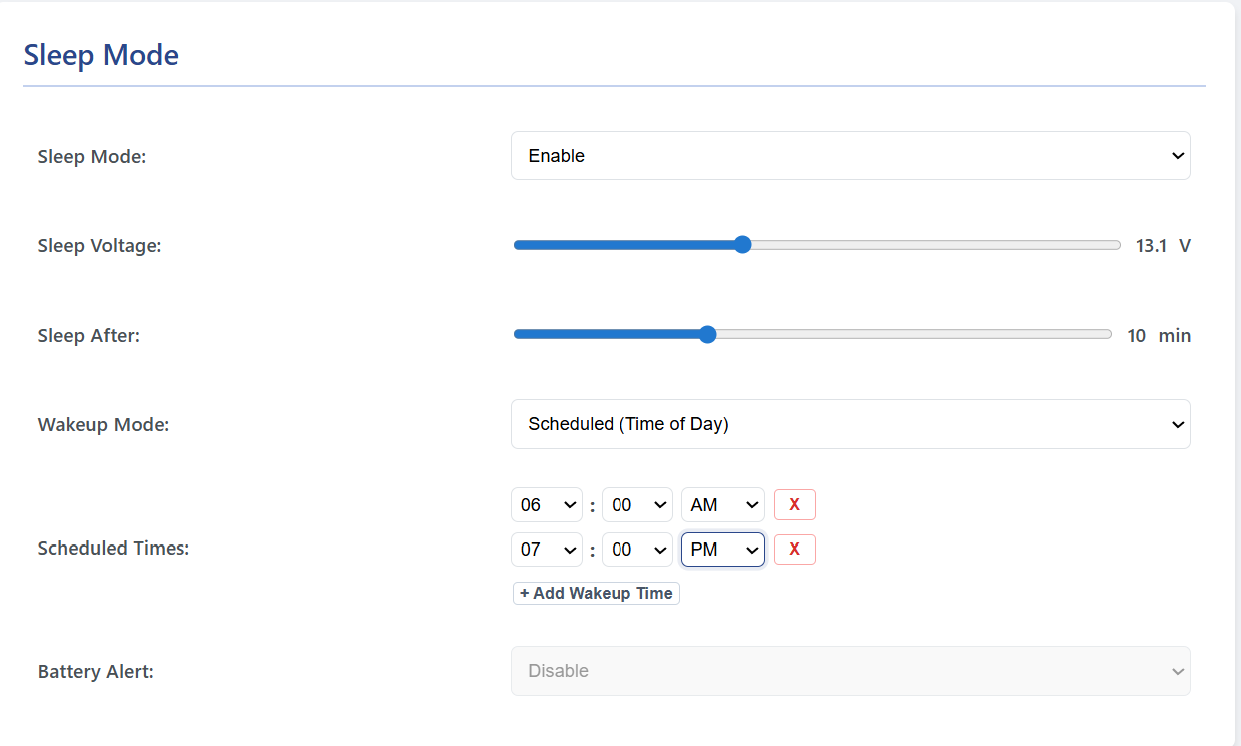
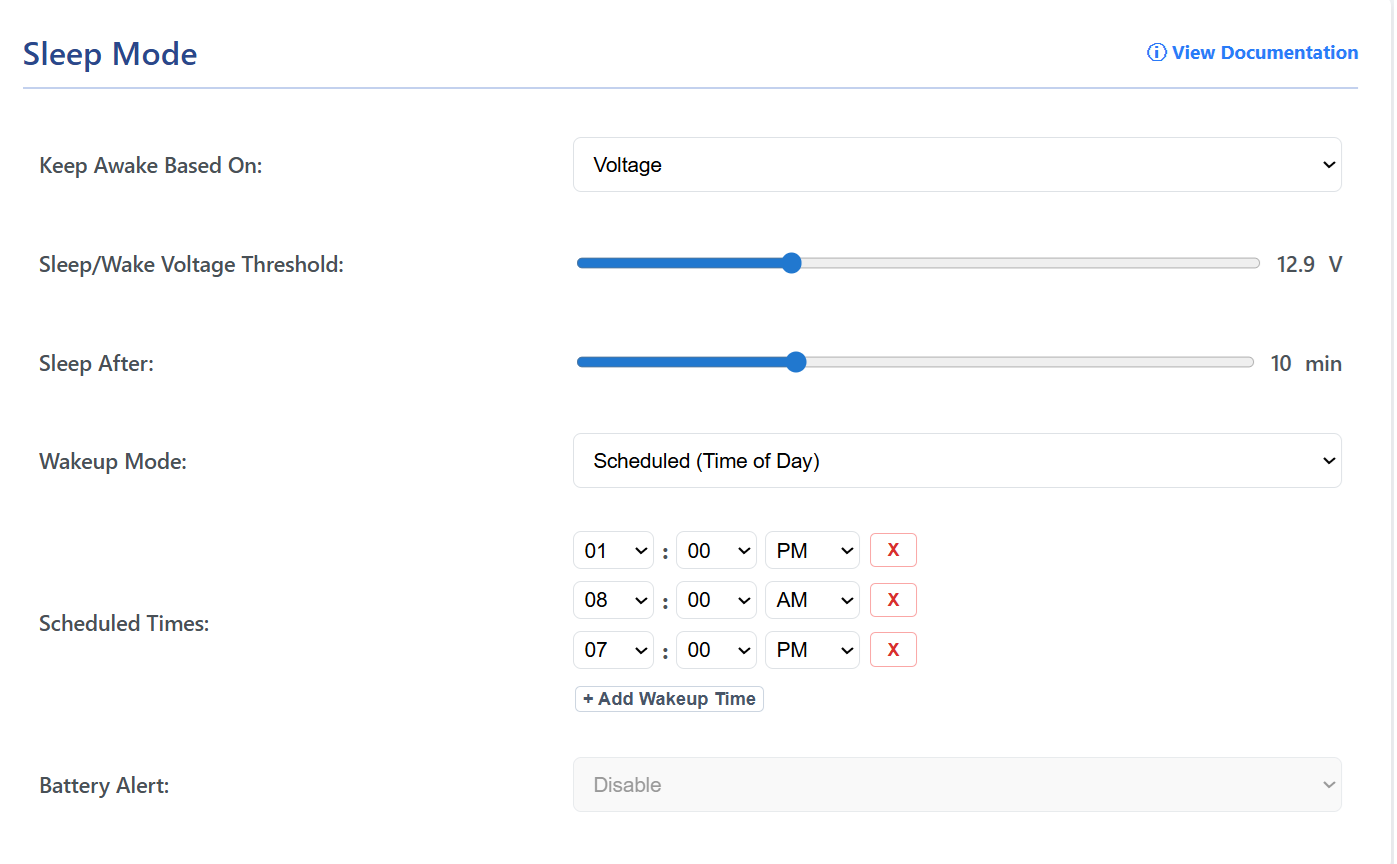
Docs for new sleep mode

diff --git a/docs/content/5.Web_Interface/6.power-saving.md b/docs/content/5.Web_Interface/6.power-saving.md
@@ -10,40 +10,56 @@ Since the WiCAN Pro remains plugged into your vehicle's OBD2 port 24/7, managing
 ::img{src="/config/sleep_mode.png" alt="Access Point Configuration" border}
 ::
 
+::img{src="/config/sleep_pid.png" alt="Access Point Configuration" border}
+::
+
+
 ---
 
 ## 1. Core Sleep Configuration
 
-The WiCAN Pro determines if your vehicle is running or parked by monitoring the 12V system voltage. When the alternator is spinning, the voltage is high (usually 13.5V+). When the engine is off, the voltage drops to the resting battery voltage (usually ~12.6V).
+The WiCAN Pro can determine if your vehicle is running or parked by monitoring the 12V system voltage, or by querying specific vehicle data (PIDs). When using voltage, it looks for the high voltage of a spinning alternator (usually 13.5V+) or the lower resting battery voltage when off (usually ~12.6V).
 
 | Setting | Description |
 | :--- | :--- |
-| **Sleep Mode** | Master toggle to enable or disable the power-saving engine. |
-| **Sleep Voltage** | The threshold that triggers the sleep timer (Range: 12.0V - 15.0V). |
-| **Sleep After** | How long the voltage must remain below the threshold before the device actually powers down (Range: 1 - 30 mins). |
+| **Keep Awake Based On** | Master toggle to define the power-saving rule (`Disable`, `Voltage`, or `Specified PID`). |
+| **Keep Awake If** | *(If Specified PID is selected)* The target PID name, operator (`>`, `<`, `==`), and value that must be met to keep the device awake. |
+| **Sleep/Wake Voltage Threshold** | *(If Voltage is selected)* The threshold that triggers the sleep timer (Range: 12.0V - 15.0V). |
+| **Sleep After** | How long the condition must fail before the device actually powers down (Range: 1 - 30 mins). |
 
 
 ### How the Sleep Logic Actually Works
-Behind the scenes, the firmware operates on a strict state machine to prevent "bouncing" (falling asleep and waking up rapidly if the voltage fluctuates):
+Behind the scenes, the firmware operates on a strict state machine to prevent "bouncing" (falling asleep and waking up rapidly if conditions fluctuate):
 
-1. **Voltage Drops:** When the battery voltage drops below your **Sleep Voltage** setting, the WiCAN enters a "Low Voltage" warning state and starts the **Sleep After** countdown timer.
-2. **Timer Expires:** If the voltage stays low for the entire duration of the timer, the WiCAN gracefully shuts down the CAN transceiver, drops the Wi-Fi/VPN connections, and enters deep sleep.
-3. **The Wakeup Trigger:** The device monitors the voltage even while sleeping. If the voltage spikes by at least `+0.1V` above your Sleep Voltage setting (indicating the engine or EV contactors have started), it enters a "Wake Pending" state.
-4. **Resuming Operation:** Once the voltage is stable for 1-2 seconds, the WiCAN performs a fresh system reboot to ensure a clean start and resumes standard operation.
+1. **Condition Fails:** When the battery voltage drops below your **Sleep Voltage** setting, or your **Specified PID** condition is no longer met, the WiCAN enters a warning state and starts the **Sleep After** countdown timer.
+2. **Timer Expires:** If the condition stays unmet for the entire duration of the timer, the WiCAN gracefully shuts down the CAN transceiver, drops the Wi-Fi/VPN connections, and enters deep sleep.
+3. **The Wakeup Trigger:** The device monitors the voltage even while sleeping. If the voltage spikes by at least `+0.1V` above your Sleep Voltage setting (indicating the engine or EV contactors have started), it wakes up. Alternatively, if configured with a Periodic Interval, it wakes up automatically to check the PID status.
+4. **Resuming Operation:** Once the condition is stable, the WiCAN resumes standard operation.
 
 > [!WARNING]
 > **Disabling Sleep Mode** will keep the Wi-Fi, CAN transceiver, and main processor running indefinitely. This will continuously drain your vehicle's battery and should only be used temporarily for testing or diagnostics.
 
 ---
 
-## 2. Background Polling
+## 2. Electric Vehicles (EVs) & "Probe and Sleep"
+
+If you drive a modern EV (or certain hybrids), the standard **Voltage** sleep mode may not work reliably. EVs routinely activate their high-voltage DC-DC converters to top off the 12V battery while parked, which keeps the 12V bus voltage artificially high and prevents the WiCAN Pro from sleeping.
+
+**For EVs, it is highly recommended to use the "Specified PID" mode.**
+
+Modern EVs aggressively isolate their CAN bus gateways when parked. If you configure the WiCAN Pro to stay awake based on a PID (like `Engine RPM > 0`), the device will periodically wake up to probe the car. 
+* If the car is parked, the CAN bus is asleep, and the PID request will simply time out. 
+* The WiCAN Pro's "Probe and Sleep" architecture interprets this timeout as the vehicle being "Off" and instantly returns to sleep, effectively preventing 12V battery drain without relying on voltage drops.
+
+---
+
+## 3. Background Polling
 
 Even when your vehicle is parked and the WiCAN is asleep, you may still want to check in on the battery health or other vehicle info like tire pressure. You can configure the WiCAN to periodically wake up, connect to Wi-Fi, run its Automate groups, and go back to sleep. For Vehicle Group, since the car is most likely off, not running, you want the Vehicle Group set to Always.
 
-* **Disable Wakeups:** The device will only wake up when you physically start the vehicle.
-* **Periodic Interval:** Wakes the device up every `X` minutes (e.g., every 60 minutes) for a brief data sync.
+* **Disable Wakeups:** The device will only wake up when you physically start the vehicle (or a voltage spike triggers a wake event).
+* **Periodic Interval:** Wakes the device up every `X` minutes (e.g., every 60 minutes) for a brief data sync. *(Note: This is **required** if using the "Specified PID" sleep mode so the device can check if the car has turned on).*
 * **Scheduled (Time of Day):** Wakes the device up at specific times. You can add multiple triggers (e.g., `08:00 AM` and `08:00 PM`). 
 
 > [!NOTE]
 > Scheduled wakeups rely on the **Local Timezone** setting. You must ensure your timezone is configured correctly in the **System** tab for this feature to trigger at the correct local time.
-
